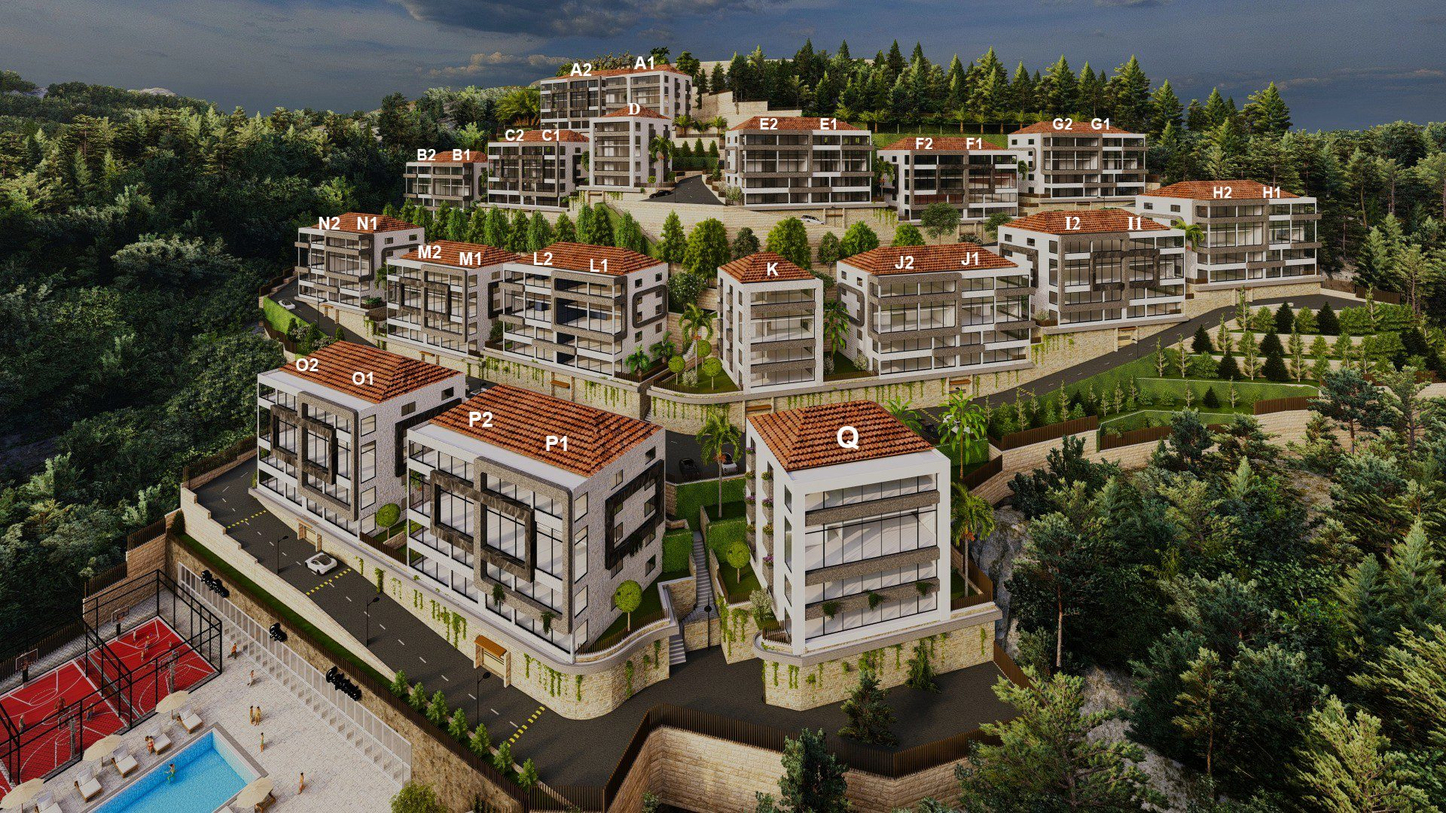
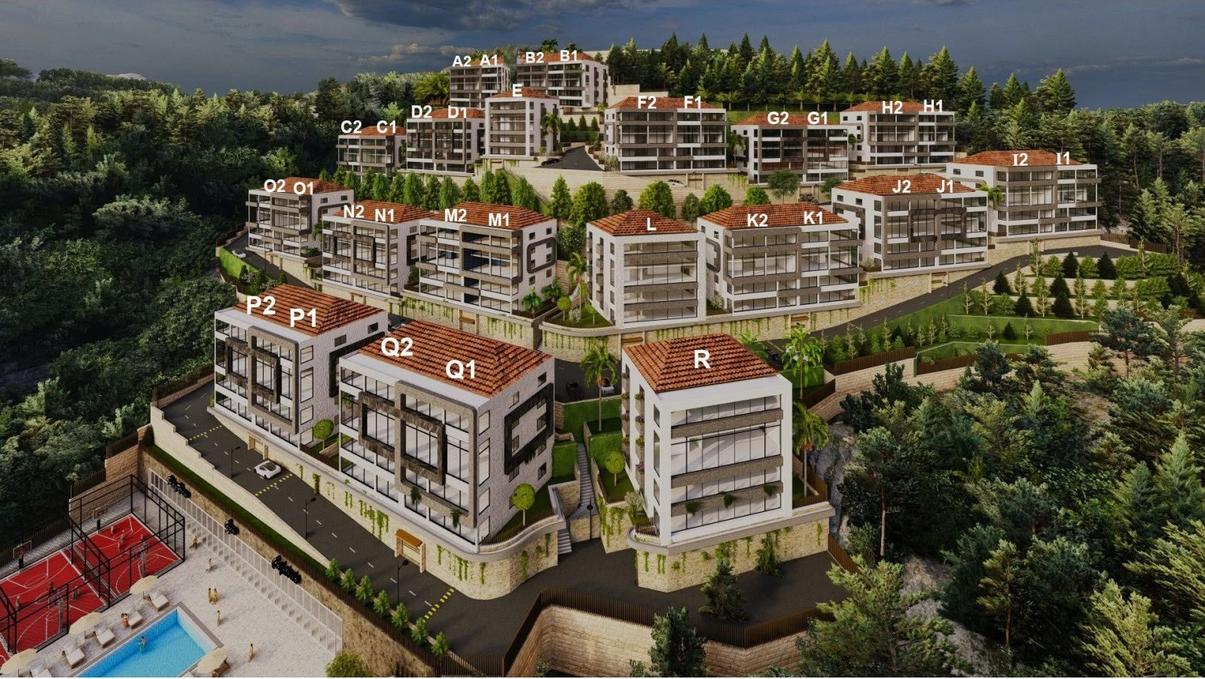
cms done

diff --git a/src/js/projects.js b/src/js/projects.js
@@ -431,34 +431,75 @@
 })();
 
 
-/* ── floor-plan lightbox: click to open, X to close, download the image ── */
+/* ── floor-plan lightbox: single or multi plan, swipe between levels, X, download ── */
 (function () {
-  var links = document.querySelectorAll('a.plan-open');
-  if (!links.length) return;
+  var openers = document.querySelectorAll('a.plan-open, button.ru-view');
+  if (!openers.length) return;
   var ov = document.createElement('div');
   ov.className = 'plan-lb';
   ov.innerHTML = '<button type="button" class="plan-lb-x" aria-label="Close floor plan">&times;</button>' +
-    '<img alt="Floor plan"><div class="plan-lb-bar"><a class="plan-lb-dl" download>Download</a></div>';
+    '<button type="button" class="plan-lb-nav plan-lb-prev" aria-label="Previous plan" hidden>\u2039</button>' +
+    '<img alt="Floor plan">' +
+    '<button type="button" class="plan-lb-nav plan-lb-next" aria-label="Next plan" hidden>\u203a</button>' +
+    '<div class="plan-lb-meta"><b class="plan-lb-cap"></b><span class="plan-lb-count"></span></div>' +
+    '<div class="plan-lb-bar"><a class="plan-lb-dl" download>Download</a></div>';
   document.body.appendChild(ov);
-  var img = ov.querySelector('img');
-  var dl = ov.querySelector('.plan-lb-dl');
+  var img = ov.querySelector('img'), dl = ov.querySelector('.plan-lb-dl'),
+      cap = ov.querySelector('.plan-lb-cap'), cnt = ov.querySelector('.plan-lb-count'),
+      prev = ov.querySelector('.plan-lb-prev'), next = ov.querySelector('.plan-lb-next');
+  var list = [], caps = [], i = 0;
+  function render() {
+    img.src = list[i];
+    img.alt = caps[i] || 'Floor plan';
+    dl.href = list[i];
+    dl.setAttribute('download', list[i].split('/').pop());
+    cap.textContent = caps[i] || '';
+    cnt.textContent = list.length > 1 ? (i + 1) + ' / ' + list.length : '';
+    prev.hidden = next.hidden = list.length < 2;
+  }
+  function openWith(l, c, start) { list = l; caps = c; i = start || 0; render(); ov.classList.add('on'); document.body.style.overflow = 'hidden'; }
   function close() { ov.classList.remove('on'); document.body.style.overflow = ''; }
-  links.forEach(function (a) {
-    a.addEventListener('click', function (e) {
+  function step(d) { if (list.length > 1) { i = (i + d + list.length) % list.length; render(); } }
+  openers.forEach(function (el) {
+    el.addEventListener('click', function (e) {
       e.preventDefault();
-      var href = a.getAttribute('href');
-      var inner = a.querySelector('img');
-      img.src = href;
-      img.alt = inner ? inner.alt : 'Floor plan';
-      dl.href = href;
-      dl.setAttribute('download', href.split('/').pop());
-      ov.classList.add('on');
-      document.body.style.overflow = 'hidden';
+      if (el.classList.contains('ru-view')) {
+        openWith(el.getAttribute('data-plans').split('|'), (el.getAttribute('data-caps') || '').split('|'));
+        return;
+      }
+      var viewer = el.closest('.plan-viewer');
+      if (viewer && viewer.classList.contains('multi')) {
+        var links = Array.prototype.slice.call(viewer.querySelectorAll('a.plan-open'));
+        var l = links.map(function (a) { return a.getAttribute('href'); });
+        var c = links.map(function (a) {
+          var fc = a.parentElement.querySelector('figcaption b');
+          return fc ? fc.textContent : '';
+        });
+        openWith(l, c, links.indexOf(el));
+        return;
+      }
+      var inner = el.querySelector('img');
+      openWith([el.getAttribute('href')], [el.getAttribute('data-cap') || '']);
     });
   });
+  prev.addEventListener('click', function (e) { e.stopPropagation(); step(-1); });
+  next.addEventListener('click', function (e) { e.stopPropagation(); step(1); });
   ov.querySelector('.plan-lb-x').addEventListener('click', close);
   ov.addEventListener('click', function (e) { if (e.target === ov) close(); });
-  document.addEventListener('keydown', function (e) { if (e.key === 'Escape') close(); });
+  document.addEventListener('keydown', function (e) {
+    if (!ov.classList.contains('on')) return;
+    if (e.key === 'Escape') close();
+    if (e.key === 'ArrowLeft') step(-1);
+    if (e.key === 'ArrowRight') step(1);
+  });
+  var tx = null;
+  ov.addEventListener('touchstart', function (e) { tx = e.touches[0].clientX; }, { passive: true });
+  ov.addEventListener('touchend', function (e) {
+    if (tx === null) return;
+    var dx = e.changedTouches[0].clientX - tx;
+    if (Math.abs(dx) > 45) step(dx < 0 ? 1 : -1);
+    tx = null;
+  }, { passive: true });
 })();
 
 
@@ -472,4 +513,33 @@
     if (prev) prev.addEventListener('click', function () { track.scrollBy({ left: -step(), behavior: 'smooth' }); });
     if (next) next.addEventListener('click', function () { track.scrollBy({ left: step(), behavior: 'smooth' }); });
   });
+})();
+
+
+/* ── Louayzeh hub: hover a building, light its whole collection ── */
+(function () {
+  var map = document.getElementById('blocksMap');
+  if (!map) return;
+  var label = map.querySelector('.bm-label');
+  var labelName = label.querySelector('b');
+  var groups = Array.prototype.slice.call(map.querySelectorAll('.bm-g'));
+  var NAMES = { classic: 'The Classic Residences', select: 'The Select Residences',
+                grand: 'The Grand Residences', 'full-floor': 'The Full-Floor Residences' };
+  function activate(g) {
+    map.classList.add('active');
+    groups.forEach(function (x) { x.classList.toggle('lit', x === g); });
+    labelName.textContent = NAMES[g.getAttribute('data-collection')] || '';
+    label.setAttribute('href', g.getAttribute('href'));
+  }
+  function clearAll() {
+    map.classList.remove('active');
+    groups.forEach(function (x) { x.classList.remove('lit'); });
+  }
+  groups.forEach(function (g) {
+    g.addEventListener('mouseenter', function () { activate(g); });
+    g.addEventListener('focus', function () { activate(g); });
+    g.addEventListener('blur', function () { clearAll(); });
+  });
+  /* selection stays while the cursor travels to the title; it clears on leaving the map */
+  map.addEventListener('mouseleave', clearAll);
 })();

diff --git a/src/css/main.css b/src/css/main.css
@@ -1126,3 +1126,48 @@ a.plans-link:hover svg{transform:translateX(5px)}
   /* maps don't need to be square-tall on a phone */
   .map-wrap iframe{height:300px}
 }
+
+
+/* ── hub tables: open a specific floor plan straight from the row ── */
+.illu-cap{font-size:.78rem;letter-spacing:.14em;text-transform:uppercase;color:var(--gray)}
+.plans-page .res-units .ru{flex-wrap:wrap}
+.ru-view{position:relative;z-index:3;flex:none;font-family:inherit;font-size:.66rem;letter-spacing:.18em;text-transform:uppercase;color:var(--navy);background:none;border:0;border-bottom:1px solid var(--navy);padding:0 0 2px;cursor:pointer;white-space:nowrap;transition:opacity .3s var(--ease)}
+.ru-view:hover{opacity:.65}
+@media(max-width:560px){.plans-page .res-units .ru b{white-space:normal;text-align:left}}
+
+/* ── lightbox: multi-plan navigation ── */
+.plan-lb-nav{position:absolute;top:50%;transform:translateY(-50%);width:44px;height:44px;border-radius:50%;border:1px solid rgba(255,255,255,.6);background:rgba(12,17,32,.35);color:#fff;font-size:1.6rem;line-height:1;cursor:pointer;z-index:2;transition:background .3s var(--ease)}
+.plan-lb-nav:hover{background:rgba(255,255,255,.18)}
+.plan-lb-prev{left:18px}
+.plan-lb-next{right:18px}
+.plan-lb-nav[hidden]{display:none}
+.plan-lb-meta{display:flex;align-items:baseline;gap:12px;color:#fff;min-height:1.2em}
+.plan-lb-cap{font-family:var(--font-display);font-size:1.05rem;letter-spacing:.04em}
+.plan-lb-count{font-size:.72rem;letter-spacing:.22em;opacity:.7}
+
+
+/* ── Louayzeh hub: interactive collection map ── */
+.blocks-map{position:relative;display:block;border:1px solid var(--line);border-radius:3px;overflow:hidden;margin-bottom:10px}
+.blocks-map img{display:block;width:100%}
+.blocks-map svg{position:absolute;inset:0;width:100%;height:100%;display:block}
+.bm-dim{fill:rgba(12,17,32,0);transition:fill .45s var(--ease);pointer-events:none}
+.blocks-map.active .bm-dim{fill:rgba(12,17,32,.55)}
+.bm-g{cursor:pointer;outline:none}
+.bm-blk{fill:rgba(255,255,255,0);stroke:rgba(255,255,255,0);stroke-width:2.5;transition:fill .35s var(--ease),stroke .35s var(--ease)}
+.bm-g.lit .bm-blk{fill:rgba(255,255,255,.28);stroke:#fff;stroke-width:3;filter:drop-shadow(0 0 16px rgba(255,255,255,.75))}
+.bm-g:focus-visible .bm-blk{stroke:#fff;stroke-dasharray:6 5}
+.bm-label{position:absolute;bottom:22px;left:50%;transform:translate(-50%,10px);opacity:0;pointer-events:none;background:rgba(23,34,74,.95);color:#fff;padding:13px 30px 14px;border-radius:2px;text-align:center;box-shadow:0 20px 50px -16px rgba(0,0,0,.6);border:1px solid rgba(255,255,255,.14);transition:opacity .4s var(--ease),transform .4s var(--ease),background .3s var(--ease)}
+.blocks-map.active .bm-label{pointer-events:auto}
+.bm-label:hover{background:rgba(30,45,96,.98)}
+.bm-label:hover i{transform:translateX(4px)}
+.bm-label i{display:inline-block;font-style:normal;transition:transform .3s var(--ease)}
+.blocks-map.active .bm-label{opacity:1;transform:translate(-50%,0)}
+.bm-label b{display:block;font-family:var(--font-display);font-weight:400;font-size:1.2rem;letter-spacing:.05em}
+.bm-label span{display:block;margin-top:3px;font-size:.6rem;letter-spacing:.28em;text-transform:uppercase;opacity:.72}
+@media(max-width:700px){.bm-label{padding:9px 16px 10px}.bm-label b{font-size:.98rem}.bm-label span{display:none}}
+
+
+/* instruction chip lives on the image itself */
+.vm-hint{position:absolute;top:16px;left:16px;z-index:2;background:rgba(23,34,74,.82);color:#fff;font-size:.64rem;letter-spacing:.22em;text-transform:uppercase;padding:9px 16px;border-radius:2px;pointer-events:none;backdrop-filter:blur(4px);transition:opacity .4s var(--ease)}
+.blocks-map.active .vm-hint{opacity:0}
+@media(max-width:700px){.vm-hint{font-size:.56rem;letter-spacing:.16em;padding:7px 11px;top:10px;left:10px}}

diff --git a/src/content/projects/louayzeh-village.md b/src/content/projects/louayzeh-village.md
@@ -16,7 +16,6 @@ slides:
   - { image: "/media/projects/louayzeh/pool-club.jpg", cap: "Pool, playroom, gym &amp; cafeteria", alt: "The pools, sun deck, courts and clubhouse facilities" }
   - { image: "/media/projects/louayzeh/gym.jpg", cap: "The poolside gym", alt: "The gym with treadmills overlooking the pool and the wooded valley" }
   - { image: "/media/projects/louayzeh/entrance.jpg", cap: "The gated entrance", alt: "The secured gated entrance of Louayzeh Village" }
-  - { image: "/media/projects/louayzeh/master-plan.jpg", cap: "Site plan", alt: "Top view master plan of Louayzeh Village" }
   - { image: "/media/projects/louayzeh/nightfall.jpg", cap: "Nightfall over the village", alt: "Louayzeh Village illuminated at night" }
 amenities:
   - label: "Adult &amp; kids pools"
